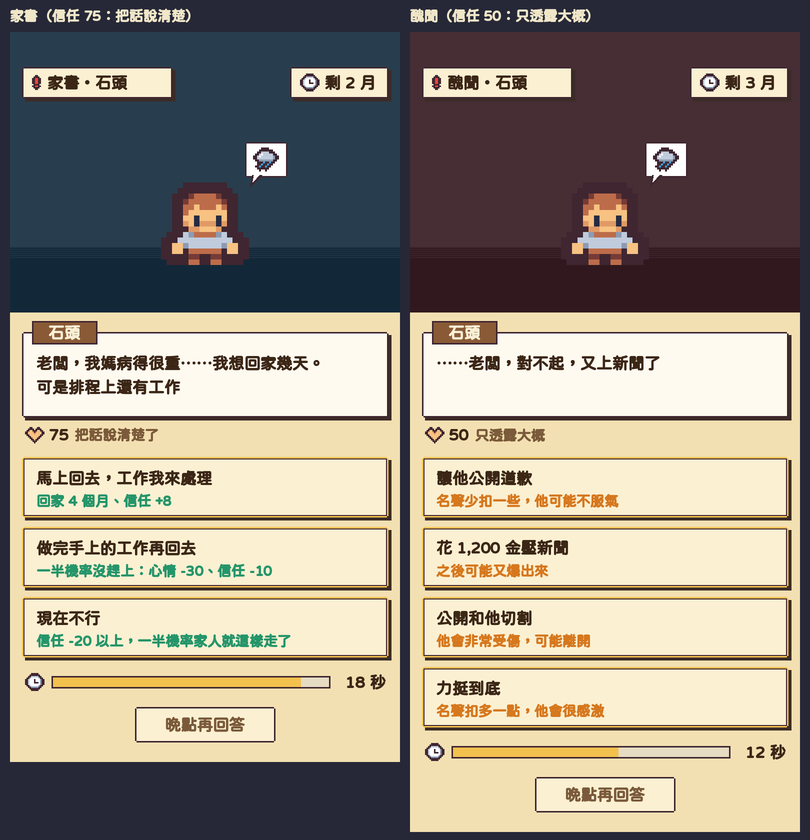
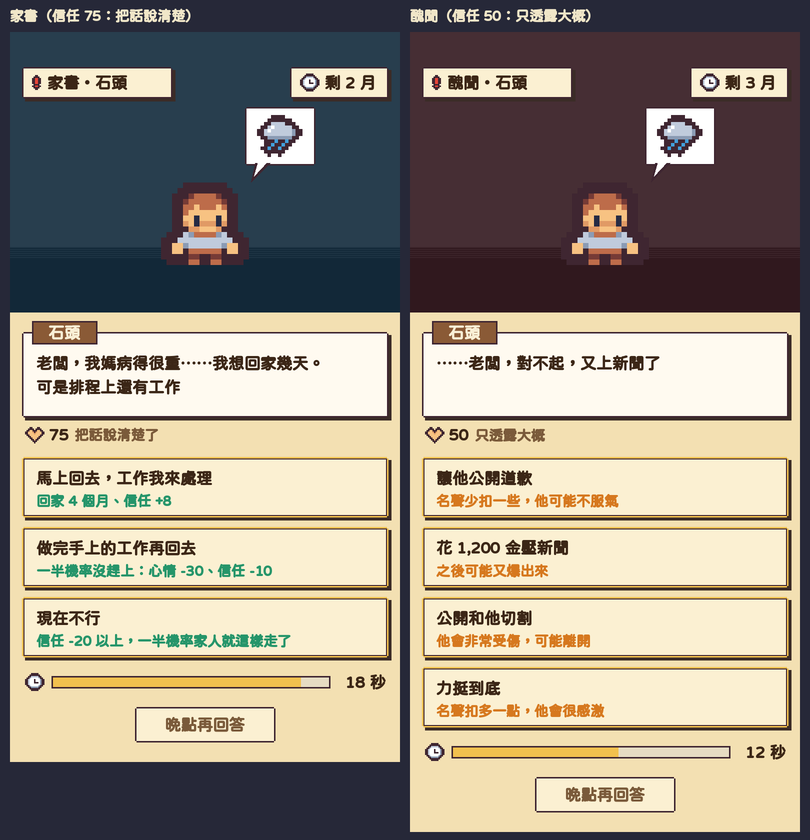
大事件草圖：表情泡泡放大
Claude-Session: https://claude.ai/code/session_01Gt7YNmhvQRochbBxqjGp1p

Changed region(s): [[0.7716, 0.1238, 0.8951, 0.2167], [0.2778, 0.1238, 0.4012, 0.2167]]

diff --git a/design/ui/evpage.py b/design/ui/evpage.py
@@ -9,9 +9,10 @@ from style import *
 from sendoff import FS, face, OKD, ORANGE
 W, H = 780, 1800
 
-def bubble(im, d, x, y):   # 表情泡泡（遊戲裡用 Kenney 表情）
-    box(d, x, y, x + 84, y + 70, fill=(255, 255, 255), shadow=False); d.polygon([(x + 14, y + 66), (x + 34, y + 66), (x + 10, y + 90)], fill=O[:3]); d.polygon([(x + 18, y + 64), (x + 30, y + 64), (x + 15, y + 80)], fill=(255, 255, 255))
-    icon_c(im, '壓力', x + 42, y + 35, 4, True)
+def bubble(im, d, x, y):   # 表情泡泡（遊戲裡用 Kenney 表情）：放大，約勇者頭的大小
+    w, h = 140, 116
+    box(d, x, y, x + w, y + h, fill=(255, 255, 255), shadow=False); d.polygon([(x + 20, y + h - 4), (x + 50, y + h - 4), (x + 12, y + h + 34)], fill=O[:3]); d.polygon([(x + 26, y + h - 6), (x + 44, y + h - 6), (x + 18, y + h + 22)], fill=(255, 255, 255))
+    icon_c(im, '壓力', x + w // 2, y + h // 2, 7, True)
 
 def page(kind, tag, left, who, text_, trust, lv, opts, sec, scene):
     im = Image.new('RGBA', (W, H), PAPER2 + (255,)); d = ImageDraw.Draw(im)
@@ -19,7 +20,7 @@ def page(kind, tag, left, who, text_, trust, lv, opts, sec, scene):
     d.rectangle([0, 0, W, 560], fill=scene); d.rectangle([0, 430, W, 560], fill=tuple(max(0, c - 22) for c in scene))
     for k in range(6): d.rectangle([0, 430 + k * 4, W, 431 + k * 4], fill=tuple(max(0, c - 10) for c in scene))
     sp = Image.open(TD + '07_01.png').convert('RGBA'); im.alpha_composite(sp.resize((176, 176), Image.NEAREST), (302, 290))
-    bubble(im, d, 470, 220)
+    bubble(im, d, 470, 150)
     # 左上：事件標籤（驚嘆＋事件名＋誰），右上：還剩幾個月要回答
     box(d, 24, 70, 24 + 300, 132, fill=PAPER); iw = icon_c(im, '驚嘆' if '驚嘆' in ICON else '危險', 44, 101, 3); text_c(d, 44 + iw + 12, 101, f'{tag}・{who}', 16)
     box(d, 560, 70, 756, 132, fill=PAPER); iw = icon_c(im, '時間', 580, 101, 3); text_c(d, 580 + iw + 10, 101, f'剩 {left} 月', 16)
